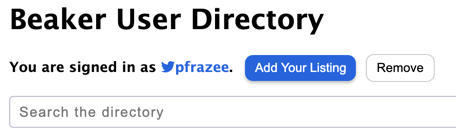
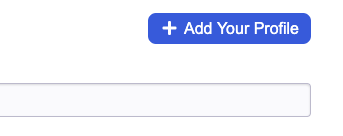
Update userlist docs

diff --git a/docs/joining-the-social-network.md b/docs/joining-the-social-network.md
@@ -122,8 +122,6 @@ Beaker maintains a [user directory](https://userlist.beakerbrowser.com/). You ca
 
 <img className="centered" src="/img/user-directory.png" />
 
-Currently, the directory uses Twitter usernames to list profile drives, so you can find people by looking up their Twitter handle. (We'll add more ways to list drives soon!)
-
 You can visit the profiles by clicking on their names. If you find somebody you want to follow, click on the "Add to Address Book" button next to their name.
 
 <img className="centered" src="/img/user-directory-entry.png" />
@@ -132,11 +130,9 @@ You can visit the profiles by clicking on their names. If you find somebody you 
 
 ## Adding yourself to the user directory
 
-To add yourself to the directory, click "Sign in via Twitter." You'll be directed to sign in and authorize our directory to see your Twitter profile. (Again: we'll add more ways to sign in soon!)
-
 <img className="centered" src="/img/user-directory-add.png" />
 
-After you've signed in, click "Add Your Listing." You'll be prompted to select your profile drive. Do that and your profile will be added!
+To add yourself to the directory, click "+ Add Your Profile." You'll be prompted to select your profile drive. Do that and your profile will be added!
 
 ---
 
